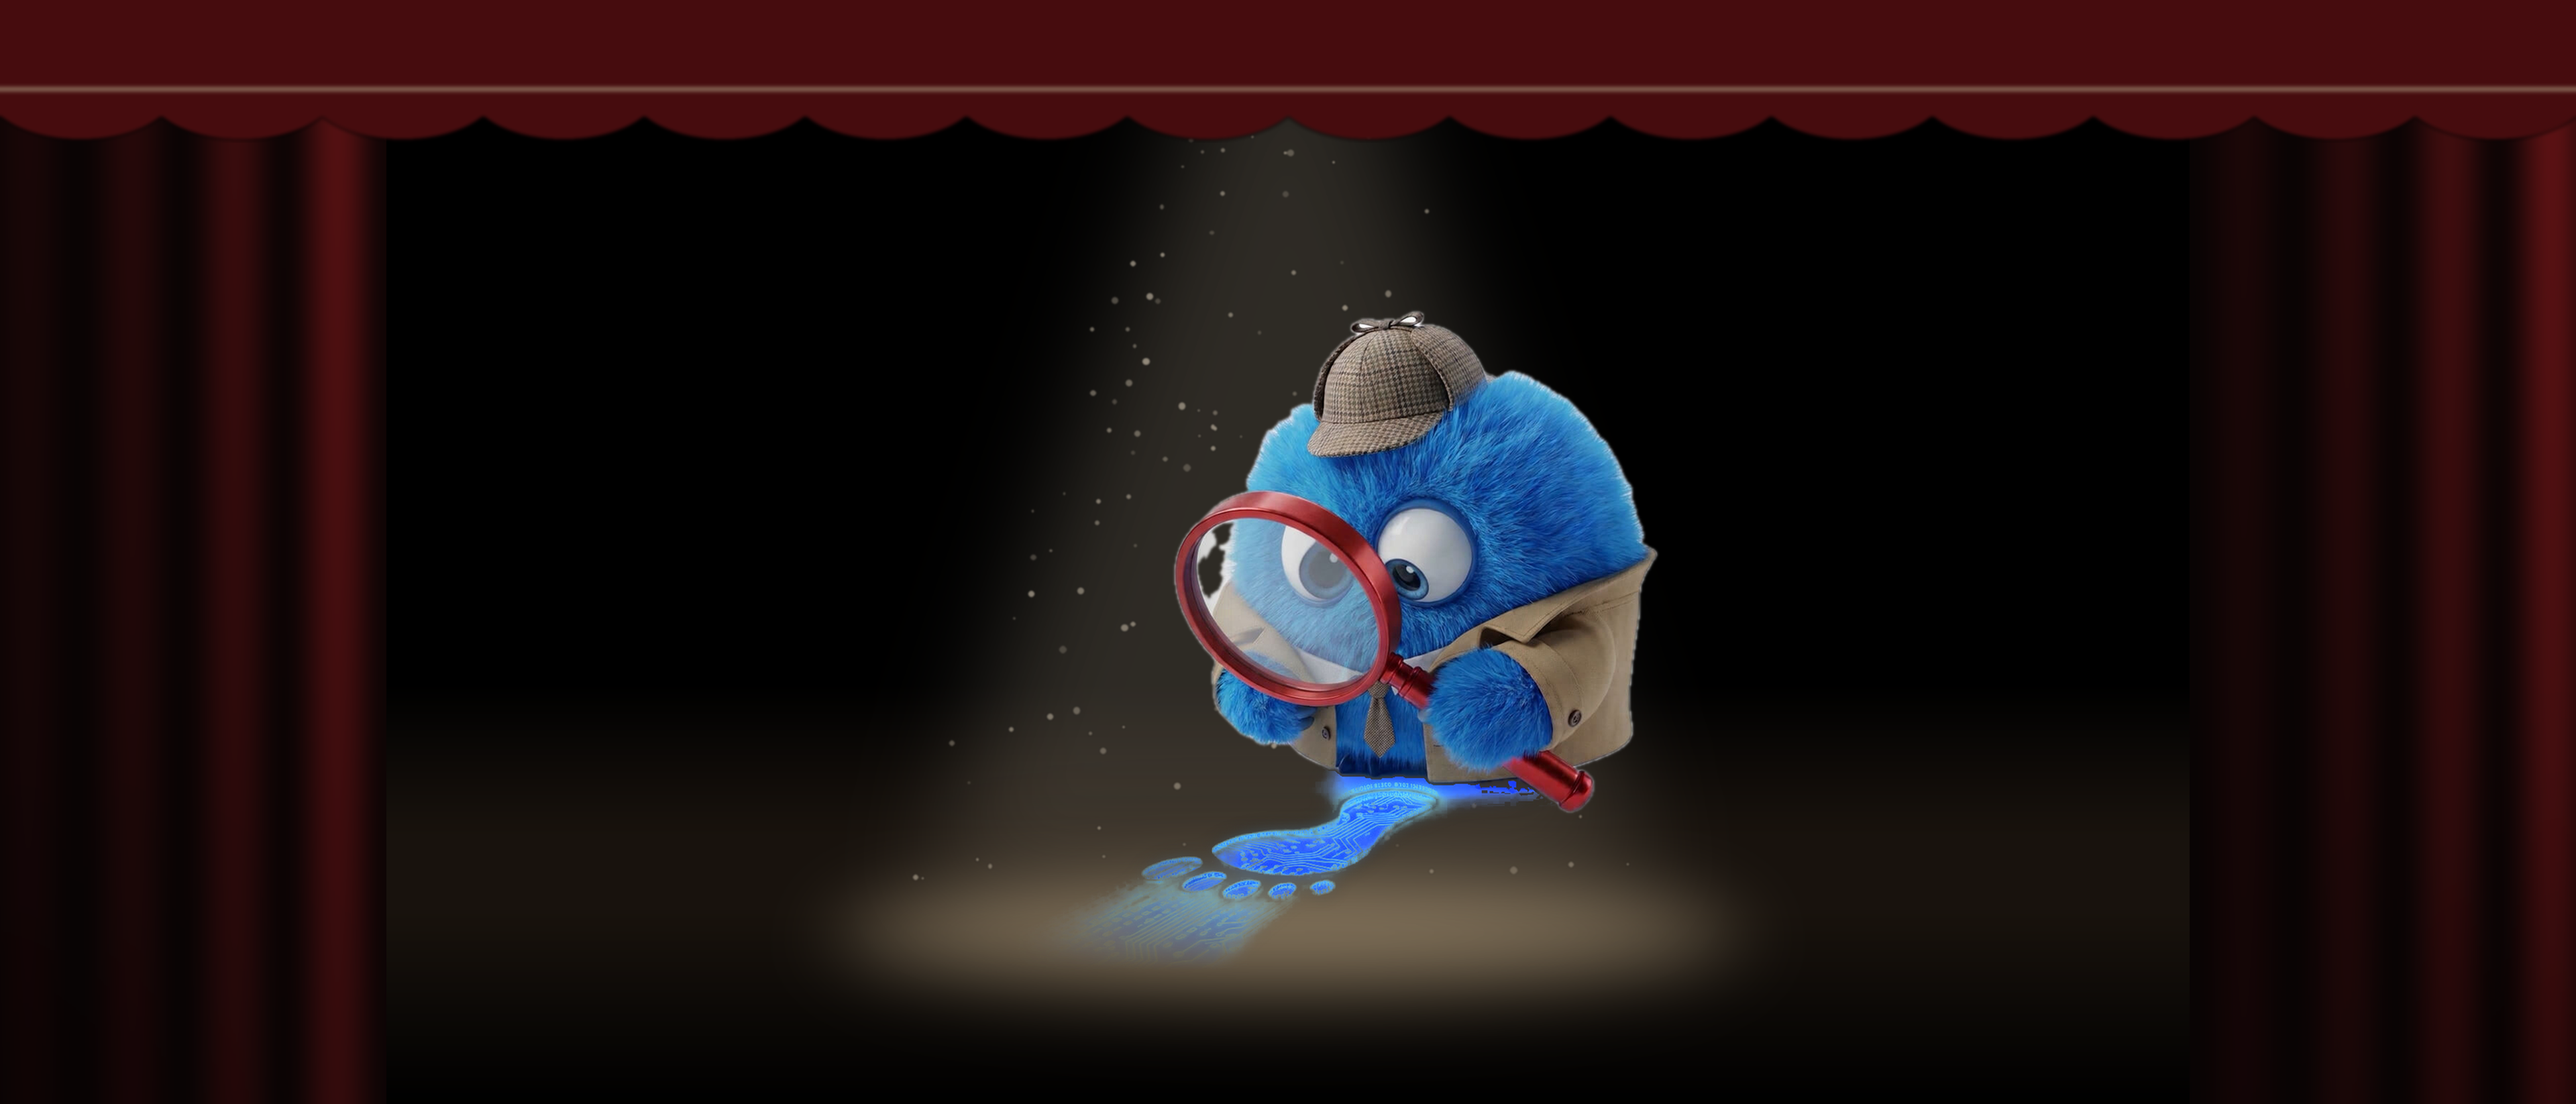
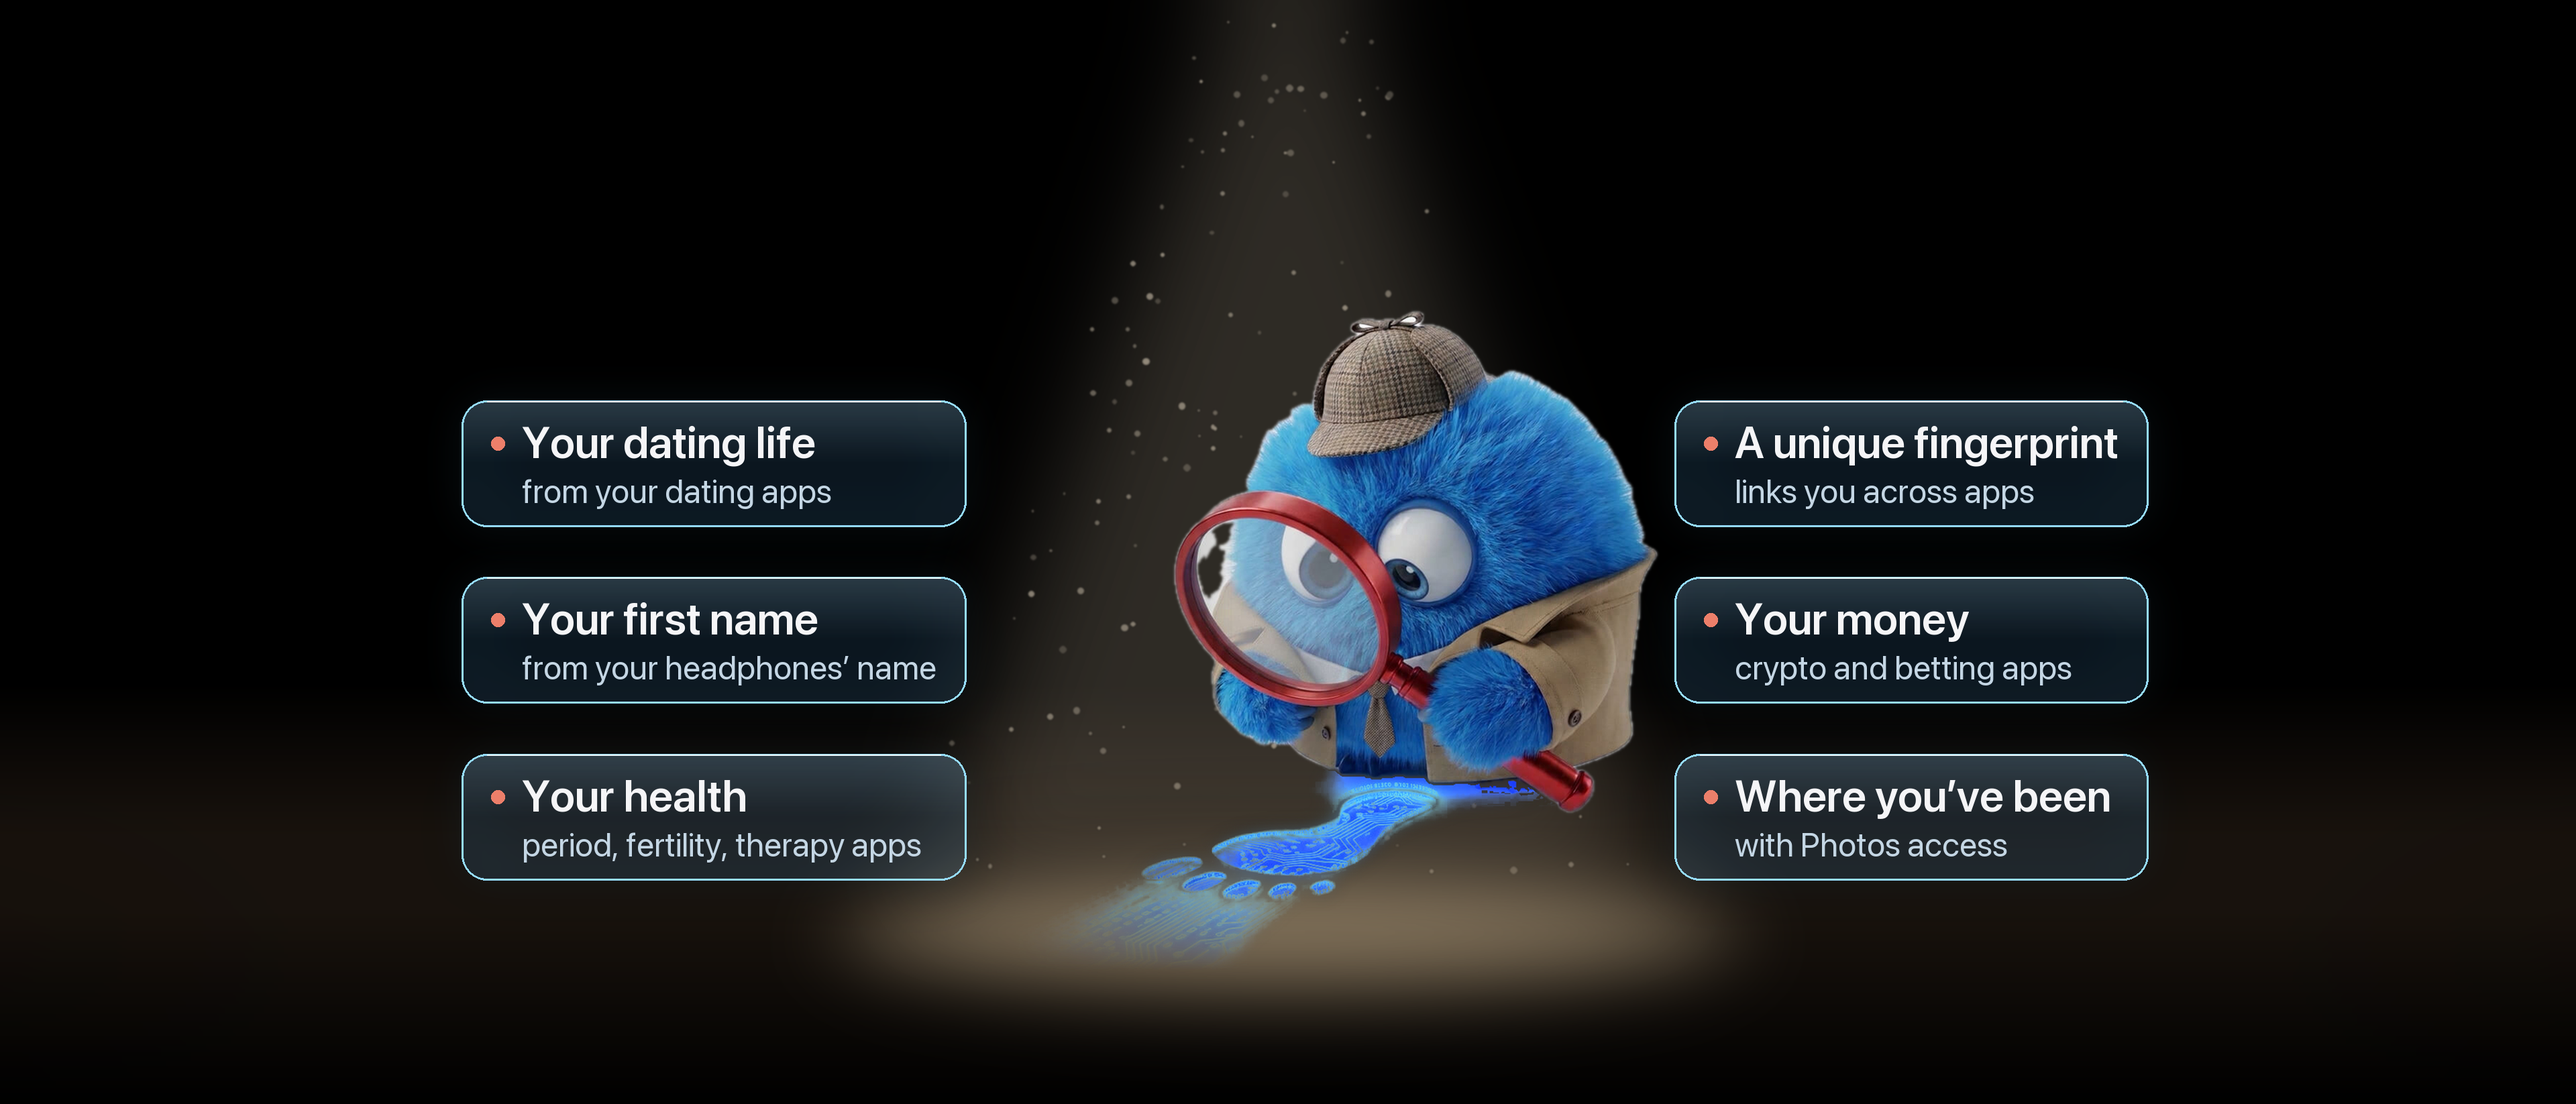
Header: no curtains, six things an app can learn on digital glass cards (owner)

diff --git a/scripts/make-creative-assets.py b/scripts/make-creative-assets.py
@@ -7,7 +7,7 @@
     python3 scripts/make-creative-assets.py <raw-iphone-dir> <out-dir>
 
 - Header, 21:9 at 3840 x 1646: theatrical, no headline. The detective in a spotlight on a dark stage,
-  his glowing digital footprint at his feet, between velvet curtains. Laid out inside the area that both
+  his glowing digital footprint at his feet, between six things an app can learn on digital glass cards. Laid out inside the area that both
   the iPhone and the iPad crop keep (see header()).
 - Search results, 3:2 at 3840 x 2560: says what the app does at a glance and shows the real
   interface, as Apple advises. The headline, three iPhone screens (the mascot is on the centre one) are all centred.
@@ -66,27 +66,51 @@ def concern(canvas, x, y, label, value, anchor, w):
     d.text((tx, y0 + pad_y + 72 + 12), value, font=vf, fill=MUTED)
 
 
-def curtain(w, h, flip=False):
-    """One velvet drape: vertical folds lit from the stage side, falling into black."""
-    import math
-    cw = int(w * 0.15)
-    im = Image.new("RGBA", (cw, h), (0, 0, 0, 0))
-    px = im.load()
-    for x in range(cw):
-        t = x / cw
-        fold = 0.55 + 0.45 * math.sin(t * math.pi * 7.5)          # folds
-        edge = (t ** 1.6) if not flip else ((1 - t) ** 1.6)          # brighter towards the stage
-        lit = 0.18 + 0.82 * edge
-        for y in range(h):
-            v = fold * lit * (0.55 + 0.45 * (1 - y / h))
-            px[x, y] = (int(96 * v + 8), int(16 * v + 4), int(18 * v + 4), 255)
-    if flip: im = im.transpose(Image.FLIP_LEFT_RIGHT)
-    return im.filter(ImageFilter.GaussianBlur(6))
+CYAN = (110, 210, 255)
+
+
+def glass_width(label, value):
+    d = ImageDraw.Draw(Image.new("RGB", (8, 8)))
+    return max(d.textlength(label, font=font(66, "Semibold")), d.textlength(value, font=font(50, "Regular"))) + 44 * 2 + 20 + 26
+
+
+def glass_card(canvas, x, y, label, value, anchor, w):
+    """Digital glass: the stage behind it frosted, a faint cyan tint and a bright hairline edge
+    that catches the light on top, with a soft cyan glow around it."""
+    lf, vf = font(66, "Semibold"), font(50, "Regular")
+    pad_x, pad_y, dot, r = 44, 28, 20, 38
+    h = int(66 + 50 + 16 + pad_y * 2)
+    x0 = int(x - w if anchor == "right" else x); y0 = int(y - h / 2); x1, y1 = int(x0 + w), y0 + h
+    mask = Image.new("L", canvas.size, 0)
+    ImageDraw.Draw(mask).rounded_rectangle((x0, y0, x1, y1), r, fill=255)
+    # Outer glow
+    glow_l = Image.new("RGBA", canvas.size, (0, 0, 0, 0))
+    ImageDraw.Draw(glow_l).rounded_rectangle((x0, y0, x1, y1), r, outline=(*CYAN, 230), width=16)
+    canvas.alpha_composite(glow_l.filter(ImageFilter.GaussianBlur(34)))
+    # Frosted body: blurred, lifted background plus a cool tint
+    frost = canvas.filter(ImageFilter.GaussianBlur(30))
+    tint = Image.new("RGBA", canvas.size, (90, 180, 255, 30))
+    frost = Image.alpha_composite(frost, tint)
+    canvas.paste(frost, (0, 0), mask)
+    # Light catching the top edge, and the hairline border
+    top = Image.new("RGBA", canvas.size, (0, 0, 0, 0))
+    td = ImageDraw.Draw(top)
+    for i in range(h // 2):
+        td.line((x0, y0 + i, x1, y0 + i), fill=(200, 235, 255, int(40 * (1 - i / (h / 2)))))
+    canvas.paste(Image.alpha_composite(canvas, top), (0, 0), mask)
+    d = ImageDraw.Draw(canvas)
+    d.rounded_rectangle((x0, y0, x1, y1), r, outline=(150, 220, 255, 210), width=3)
+    d.line((x0 + r, y0 + 1, x1 - r, y0 + 1), fill=(235, 248, 255, 230), width=2)
+    tx = x0 + pad_x + dot + 26
+    d.ellipse((x0 + pad_x, y0 + pad_y + 26, x0 + pad_x + dot, y0 + pad_y + 26 + dot), fill=CORAL)
+    d.text((tx, y0 + pad_y - 6), label, font=lf, fill=INK)
+    d.text((tx, y0 + pad_y + 66 + 10), value, font=vf, fill=(196, 214, 228))
 
 
 def header(out):
-    """Theatrical (owner, 2026-11-05): a dark stage between velvet curtains, one spotlight on the
-    detective and the glowing digital footprint at his feet. No headline. Everything that matters
+    """Theatrical (owner, 2026-11-05): a dark stage, one spotlight on the detective and the glowing
+    digital footprint at his feet, six things an app can learn on digital glass cards. No curtains
+    (owner). No headline. Everything that matters
     sits in the area both crops keep: iPhone shows the full height but only the middle ~84% of the
     width, with buttons over the top corners; iPad shows the full width but loses ~15% top and
     bottom, with the tab bar over the top centre. Safe: x 0.10-0.90, y 0.30-0.85."""
@@ -125,22 +149,19 @@ def header(out):
     # The detective, centre stage, feet on the boards.
     m = mascot(int(h * 0.60))
     c.alpha_composite(m, ((w - m.width) // 2 + int(w * 0.02), floor_y + int(h * 0.04) - m.height))
-    # Curtains and a valance frame the stage.
-    left, right = curtain(w, h), curtain(w, h, flip=True)
-    c.alpha_composite(left, (0, 0)); c.alpha_composite(right, (w - right.width, 0))
-    val = Image.new("RGBA", (w, int(h * 0.13)), (0, 0, 0, 0))
-    vd = ImageDraw.Draw(val)
-    vd.rectangle((0, 0, w, val.height * 0.62), fill=(70, 12, 14, 255))
-    for i in range(0, w, 240):
-        vd.ellipse((i - 20, val.height * 0.30, i + 260, val.height * 0.98), fill=(70, 12, 14, 255))
-    vd.line((0, val.height * 0.62, w, val.height * 0.62), fill=(*SAND_DEEP, 255), width=6)
-    c.alpha_composite(val.filter(ImageFilter.GaussianBlur(3)), (0, 0))
     # A soft vignette pulls the eye to the light.
     vig = Image.new("L", (w, h), 0)
     ImageDraw.Draw(vig).ellipse((-w * 0.15, -h * 0.35, w * 1.15, h * 1.25), fill=255)
     vig = vig.filter(ImageFilter.GaussianBlur(260))
     black = Image.new("RGBA", (w, h), (0, 0, 0, 255))
     c = Image.composite(c, black, vig)
+    # Six things an app can learn, on digital glass cards either side of the spotlight.
+    m_left, m_right = w / 2 - w * 0.125, w / 2 + w * 0.15
+    lw = max(glass_width(*x) for x in CONCERNS[:3])
+    rw = max(glass_width(*x) for x in CONCERNS[3:])
+    for i, fy in enumerate((0.42, 0.58, 0.74)):
+        glass_card(c, m_left, h * fy, *CONCERNS[i], anchor="right", w=lw)
+        glass_card(c, m_right, h * fy, *CONCERNS[3 + i], anchor="left", w=rw)
     c.convert("RGB").save(out / "header-3840x1646.png", optimize=True)
 
 
